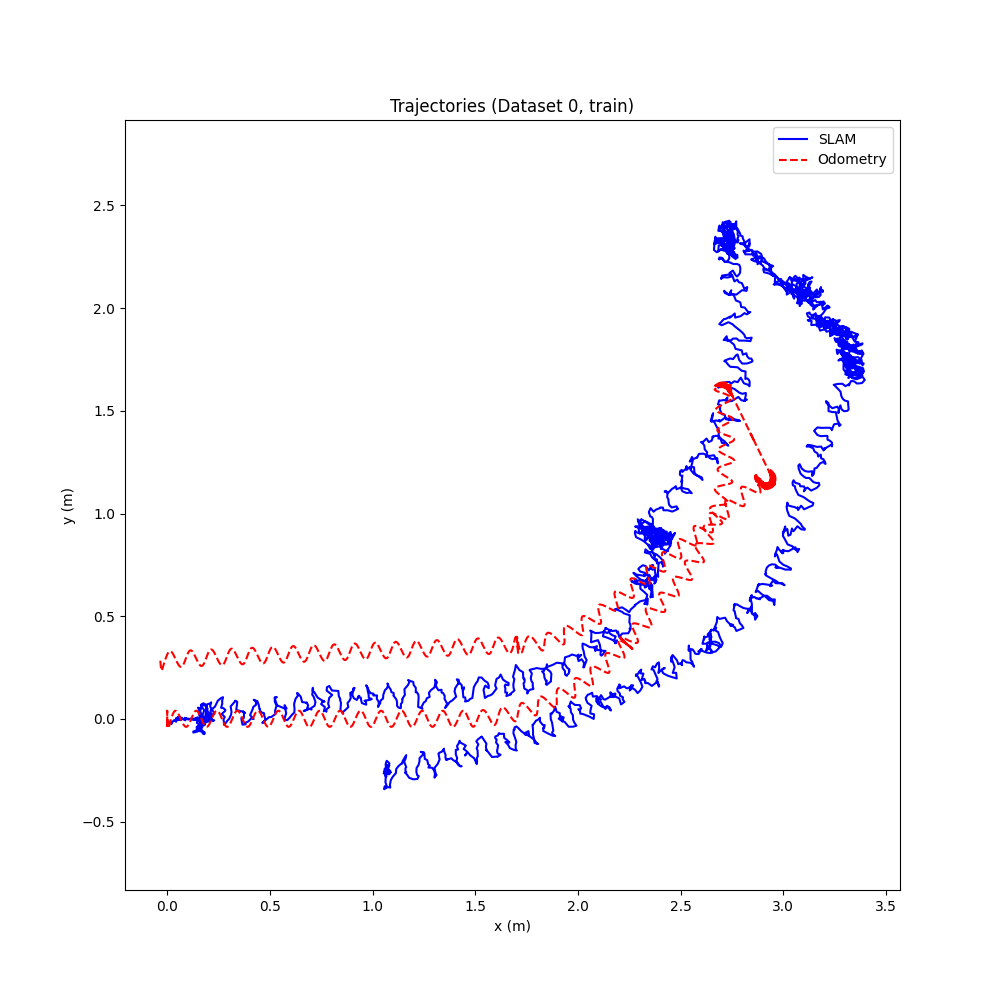
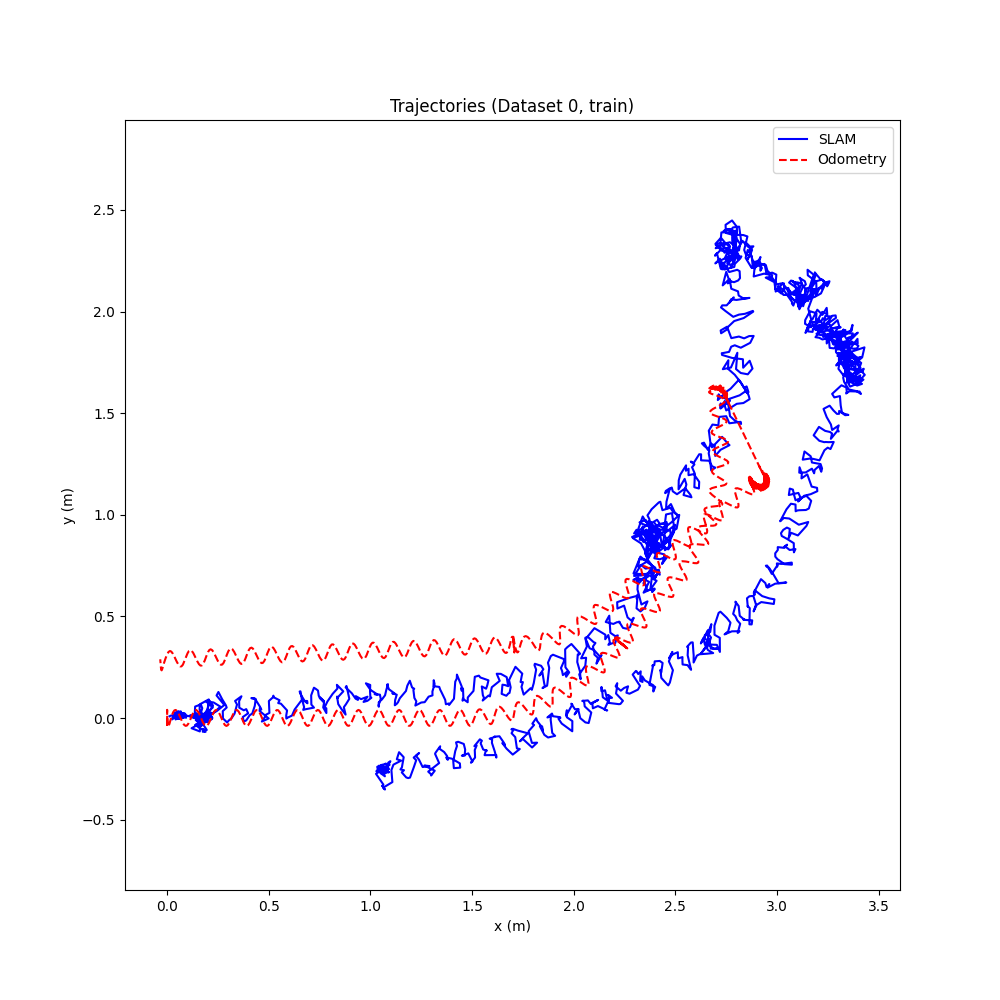
stuff

diff --git a/CS-6501_Behl/algorithm/HW3/test_observation_step.py b/CS-6501_Behl/algorithm/HW3/test_observation_step.py
@@ -1,50 +1,80 @@
+from slam import slam_t, map_t
 import numpy as np
-from slam import slam_t
 
-def test_observation_step():
-    print('> Testing observation_step')
-    slam = slam_t(resolution=0.05)
-    slam.N = 3
-    slam.p = np.array([[0.2, 0.2, 0.1], [2.0, 0.4, 2.7], [3.0, 5.0, 4.0]])
-    slam.w = np.log(np.ones(slam.N) / slam.N)
-    slam.map = np.zeros((100, 100))
-    slam.lidar = [{}]
-    slam.lidar.append({'xyth': np.array([0.0, 0.0, 0.0])})
+class TestObservationStep:
+    def __init__(self, slam_t, map_t):
+        self.slam_t = slam_t
+        self.map_t = map_t
 
-    print("\nTest Case 1: Observation step with scaled obs_logp")
-    distances = np.sqrt(slam.p[0, :]**2 + slam.p[1, :]**2)
-    obs_logp = -distances  # [-2.01, -0.447, -2.70]
-    # Scale obs_logp to a range where update_weights works (e.g., max difference of 2)
-    obs_logp = (obs_logp - np.min(obs_logp)) / (np.max(obs_logp) - np.min(obs_logp)) * 2  # Scale to [0, 2]
-    print(f"Scaled obs_logp: {obs_logp}")
-    # Expected: [0.628, 2.0, 0.0]
-    slam.w = slam_t.update_weights(slam.w, obs_logp)
-    print(f"Weights after update (log-space): {slam.w}")
-    w_probs = np.exp(slam.w - slam_t.log_sum_exp(slam.w))
-    print(f"Weights after update (probabilities): {w_probs}")
-    expected_largest = 1
-    largest_weight_idx = np.argmax(w_probs)
-    print(f"Largest weight index: {largest_weight_idx}, Expected: {expected_largest}")
-    print(f"Match: {largest_weight_idx == expected_largest}")
+    def make_mock_slam(self):
+        slam = self.slam_t(resolution=1.0)
+        slam.map = self.map_t(resolution=1.0)
+        slam.init_particles(n=2)
+        slam.find_joint_t_idx_from_lidar = lambda t: 0
+        slam.joint = { "head_angles": [[0], [0]], "t": np.array([0]) }
+        slam.lidar_angles = np.array([0])
+        slam.lidar_dmin = 0.1
+        slam.lidar_dmax = 5.0
+        slam.lidar_log_odds_occ = 0.9
+        slam.lidar_log_odds_free = -0.2
+        return slam
 
-    print("\nTest Case 2: Observation step with resampling")
-    ess = 1.0 / np.sum(w_probs ** 2)
-    print(f"ESS: {ess}, Threshold: {slam.N / 2}")
-    if ess < slam.N / 2:
-        print("ESS below threshold, resampling...")
-        slam.p, slam.w = slam_t.resample_particles(slam.p, slam.w)
-    else:
-        print("ESS above threshold, no resampling.")
-    print(f"Particles after observation_step:\n{slam.p}")
-    print(f"Weights after observation_step (probabilities): {np.exp(slam.w - slam_t.log_sum_exp(slam.w))}")
-    if ess < slam.N / 2:
-        expected_probs = np.ones(slam.N) / slam.N
-        print(f"Expected weights (probabilities): {expected_probs}")
-        print(f"Match: {np.allclose(np.exp(slam.w - slam_t.log_sum_exp(slam.w)), expected_probs, atol=1e-6)}")
-    else:
-        largest_weight_idx = np.argmax(np.exp(slam.w - slam_t.log_sum_exp(slam.w)))
-        print(f"Largest weight index: {largest_weight_idx}, Expected: {expected_largest}")
-        print(f"Match: {largest_weight_idx == expected_largest}")
+    def test_observation_weights_update(self):
+        slam = self.slam_t(resolution=1.0)
+        slam.init_particles(n=2)
+        slam.p[:, 0] = [0, 0, 0]
+        slam.p[:, 1] = [2, 2, 0]
+        slam.w[:] = [0.5, 0.5]
+        slam.lidar = [{ "t": 0, "scan": np.array([2.0]) }]
+        slam.joint = { "head_angles": [[0], [0]], "t": np.array([0]) }
+        slam.find_joint_t_idx_from_lidar = lambda t: 0
+        slam.lidar_dmin = 0.1
+        slam.lidar_dmax = 5.0
+        slam.lidar_angles = np.array([0])
+        slam.map.cells[0, 2] = 1
 
-if __name__ == "__main__":
-    test_observation_step()
+        def fake_rays2world(p, d, head_angle, neck_angle, angles):
+            if np.allclose(p[:2], [0, 0]):
+                return np.array([[2], [0]])
+            else:
+                return np.array([[20], [20]])
+
+        slam.rays2world = fake_rays2world
+        slam.observation_step(0)
+        print("\n--- DEBUG OUTPUT ---")
+        for i in range(slam.n):
+            # Project rays
+            z = slam.rays2world(slam.p[:, i], d=np.array([1.0]), head_angle=0, neck_angle=0, angles=np.array([0.0]))
+            y_o = slam.map.grid_cell_from_xy(z[0], z[1])
+            
+            print(f"Particle {i} at {slam.p[:, i]}")
+            print(f"  Ray endpoint in world: {z.ravel()}")
+            print(f"  Grid index hit: {y_o[:, 0]}")
+            print(f"  Map value at hit cell: {slam.map.cells[y_o[1, 0], y_o[0, 0]]}")
+
+
+        return slam.w
+
+    def test_log_odds_update(self):
+        slam = self.make_mock_slam()
+        slam.p[:, 0] = [0, 0, 0]
+        slam.w[:] = [1.0]
+        slam.lidar = [{ "t": 0, "scan": np.array([1.0]) }]
+        slam.rays2world = lambda p, d, head_angle, neck_angle, angles: np.array([[1], [0]])
+        slam.observation_step(0)
+        occupied_idx = slam.map.grid_cell_from_xy(np.array([1.0]), np.array([0.0]))
+        free_idx = slam.map.grid_cell_from_xy(np.array([0.0]), np.array([0.0]))
+
+        log_odds_occ = slam.map.log_odds[occupied_idx[1][0], occupied_idx[0][0]]
+        log_odds_free = slam.map.log_odds[free_idx[1][0], free_idx[0][0]]
+
+        return log_odds_occ, log_odds_free
+    
+tester = TestObservationStep(slam_t, map_t)
+weights = tester.test_observation_weights_update()
+log_occ, log_free = tester.test_log_odds_update()
+
+print("Weights after observation:", weights)
+print("Log odds (occupied):", log_occ)
+print("Log odds (free):", log_free)
+

diff --git a/CS-6501_Behl/algorithm/HW3/test_update_weights.py b/CS-6501_Behl/algorithm/HW3/test_update_weights.py
@@ -1,32 +1,33 @@
-import numpy as np
 from slam import slam_t
+import numpy as np
 
-def test_update_weights():
-    # Prior weights (equal), in log-space
-    w = np.log(np.array([1/3, 1/3, 1/3]))
-    
-    # Observation log-probabilities (simulate different particle likelihoods)
-    obs_logp = np.array([-5.0, -1.0, -0.1])
+def test_log_odds_update():
+    slam = slam_t(resolution=1.0)
+    slam.init_particles(n=1)
+    slam.p[:, 0] = [0, 0, 0]
 
-    print(f"Initial log weights: {w}")
-    print(f"Observation log-probabilities: {obs_logp}")
+    slam.w[:] = [1.0]
 
-    # Run the function
-    log_weights_new = slam_t.update_weights(w, obs_logp)
-    weights_new = np.exp(log_weights_new)
+    slam.lidar = [{ "t": 0, "scan": np.array([1.0]) }]
+    slam.joint = { "head_angles": [[0], [0]], "t": np.array([0]) }
+    slam.find_joint_t_idx_from_lidar = lambda t: 0
+    slam.lidar_dmin = 0.1
+    slam.lidar_dmax = 5.0
+    slam.lidar_angles = np.array([0])
+    slam.lidar_log_odds_occ = 0.8
+    slam.lidar_log_odds_free = -0.2
 
-    print(f"New log weights: {log_weights_new}")
-    print(f"New normalized weights: {weights_new}")
-    print(f"Sum of new weights: {np.sum(weights_new)}")
+    def fake_rays2world(p, d, head_angle, neck_angle, angles):
+        return np.array([[1], [0]])
 
-    # Basic checks
-    assert np.all(weights_new >= 0), "Weights must be non-negative"
-    assert np.isclose(np.sum(weights_new), 1.0), "Weights must sum to 1"
+    slam.rays2world = fake_rays2world
 
-    # Heuristic check: third particle should have highest weight
-    assert np.argmax(weights_new) == 2, "Particle with highest log-likelihood should have highest weight"
+    slam.observation_step(0)
 
-    print("✅ update_weights() passed all tests.")
+    occupied_idx = slam.map.grid_cell_from_xy(np.array([1.0]), np.array([0.0]))
+    free_idx = slam.map.grid_cell_from_xy(np.array([0.0]), np.array([0.0]))
 
-if __name__ == "__main__":
-    test_update_weights()
+    assert slam.map.log_odds[occupied_idx[1][0], occupied_idx[0][0]] > 0.7, "Occupied cell log-odds should increase"
+    assert slam.map.log_odds[free_idx[1][0], free_idx[0][0]] < -0.1, "Free cell log-odds should decrease"
+
+test_log_odds_update()

diff --git a/CS-6501_Behl/algorithm/HW3/slam.py b/CS-6501_Behl/algorithm/HW3/slam.py
@@ -118,11 +118,11 @@ class slam_t:
         # sensor model lidar_log_odds_occ is the value by which we would increase the log_odds
         # for occupied cells. lidar_log_odds_free is the value by which we should decrease the
         # log_odds for free cells (which are all cells that are not occupied)
-        s.lidar_log_odds_occ = np.log(9)
-        s.lidar_log_odds_free = np.log(1/9.)
+        # s.lidar_log_odds_occ = np.log(9)
+        # s.lidar_log_odds_free = np.log(1/9.)
 
-        # s.lidar_log_odds_occ = .85
-        # s.lidar_log_odds_free = -.04
+        s.lidar_log_odds_occ = .85
+        s.lidar_log_odds_free = -.04
 
     def init_particles(s, n=100, p=None, w=None, t0=0):
         """
@@ -285,10 +285,15 @@ class slam_t:
             y_o = s.map.grid_cell_from_xy(x = z_t[0, :], y = z_t[1, :])
 
             # calculate logprob
-            obs_logp[p_i] = np.sum(s.map.cells[y_o[1, :], y_o[0, :]])
+            if y_o.ndim == 2:
+                obs_logp[p_i] = np.sum(s.map.cells[y_o[1, :], y_o[0, :]])
+            else:
+                obs_logp[p_i] = s.map.cells[y_o[1], y_o[0]]
+
 
         # update the weights
         log_w = np.log(s.w + 1e-10)
+        log_w = log_w / np.sum(log_w)
 
         new_weights = s.update_weights(w = log_w, obs_logp = obs_logp)
 
@@ -323,13 +328,8 @@ class slam_t:
             sy = 1 if y0 < y1 else -1
             err = dx - dy
 
-            while True:
-                if (x0, y0) != (x1, y1):
-                    free_cells.add((x0, y0))
-                
-                if x0 == x1 and y0 == y1:
-                    break
-
+            while (x0 != x1) or (y0 != y1):
+                free_cells.add((x0, y0))
                 e2 = 2 * err
 
                 if e2 > -dy:

diff --git a/CS-6501_Behl/algorithm/HW3/main.py b/CS-6501_Behl/algorithm/HW3/main.py
@@ -105,7 +105,7 @@ def run_slam(src_dir, log_dir, idx, split):
     be something larger than the very small value we picked in run_dynamics_step function
     above.
     """
-    slam = slam_t(resolution=0.05, Q= 1e-4 * np.eye(3))
+    slam = slam_t(resolution=0.05, Q= np.diag([5e-3, 5e-3, 5e-3]), resampling_threshold=.3)
     slam.read_data(src_dir, idx, split)
     T = len(slam.lidar)
 
@@ -116,7 +116,7 @@ def run_slam(src_dir, log_dir, idx, split):
     # data and joint data
     #### TODO: XXXXXXXXXXX
     t0 = 0
-    timestep_difference_threshold = .01
+    timestep_difference_threshold = .001
 
     # find best t0
     while t0 < T:
@@ -156,7 +156,7 @@ def run_slam(src_dir, log_dir, idx, split):
     traj = np.zeros((T, 3))
     odom = np.zeros((T, 3))  # Odometry trajectory (x, y, theta)
 
-    skip_steps = 3
+    skip_steps = 10
 
     for t in range(t0, T, skip_steps):
 
@@ -168,7 +168,6 @@ def run_slam(src_dir, log_dir, idx, split):
         traj[t, :] = best_pose
         odom[t, :] = slam.lidar[t]["xyth"]
 
-    # print("SLAM trajectory range:", traj.min(axis=0), traj.max(axis=0))
     traj = traj[t0:T:skip_steps]
     odom = odom[t0:T:skip_steps]
 
@@ -179,7 +178,7 @@ def run_slam(src_dir, log_dir, idx, split):
     plt.title(f'Final Occupancy Grid (Dataset {idx}, {split})')
     plt.xlabel('x (m)')
     plt.ylabel('y (m)')
-    plt.colorbar(label='Occupancy (0=free, 1=occupied)')
+    plt.plot(traj[:, 0], traj[:, 1], 'b-', label='SLAM')
     grid_plot_path = os.path.join(log_dir, f'occupancy_grid_{split}_{idx:02d}.png')
     plt.savefig(grid_plot_path)
     plt.close()
